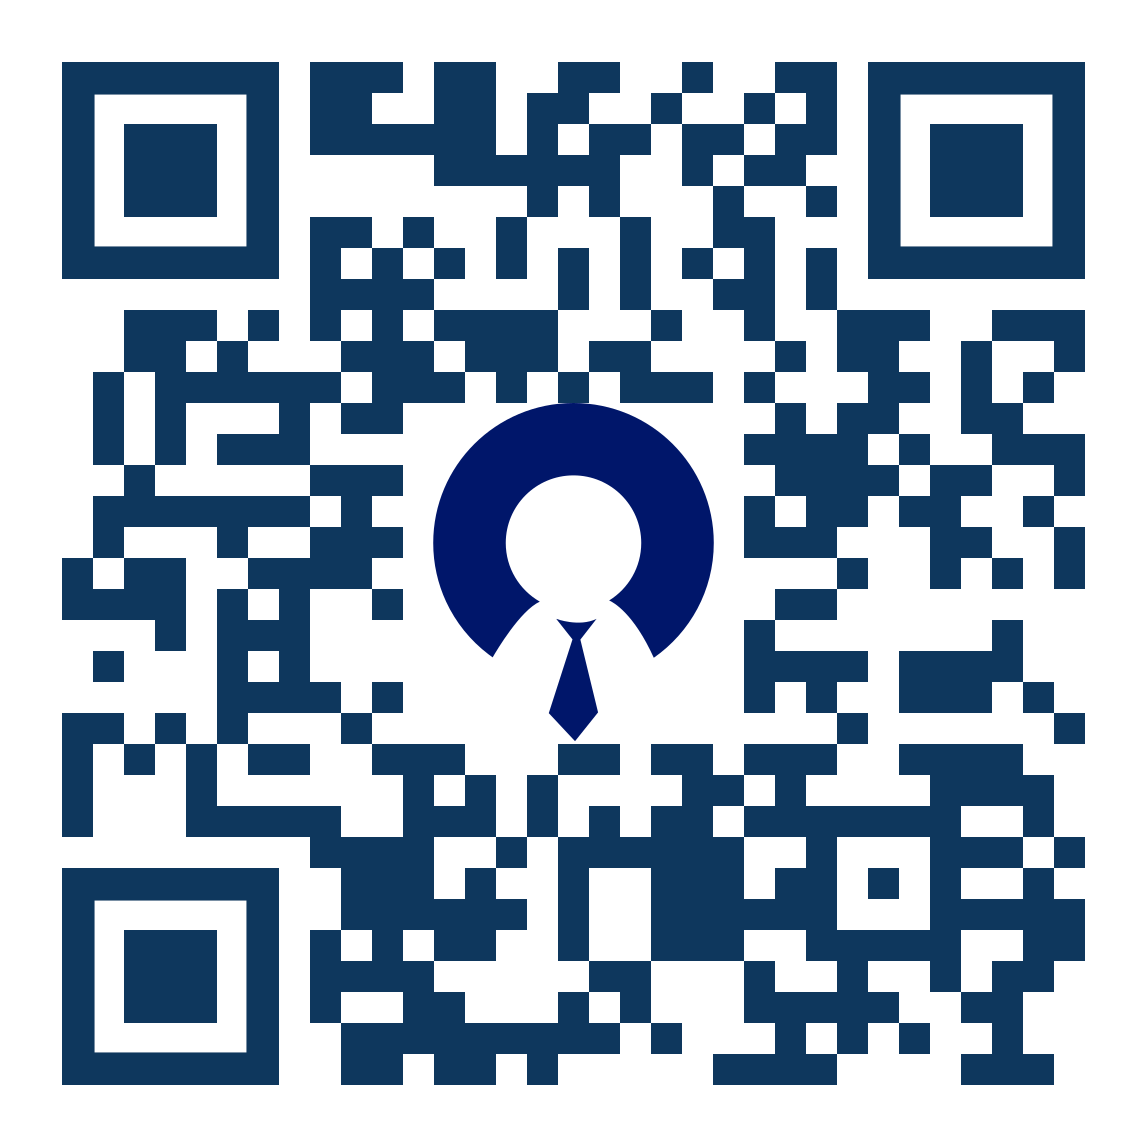
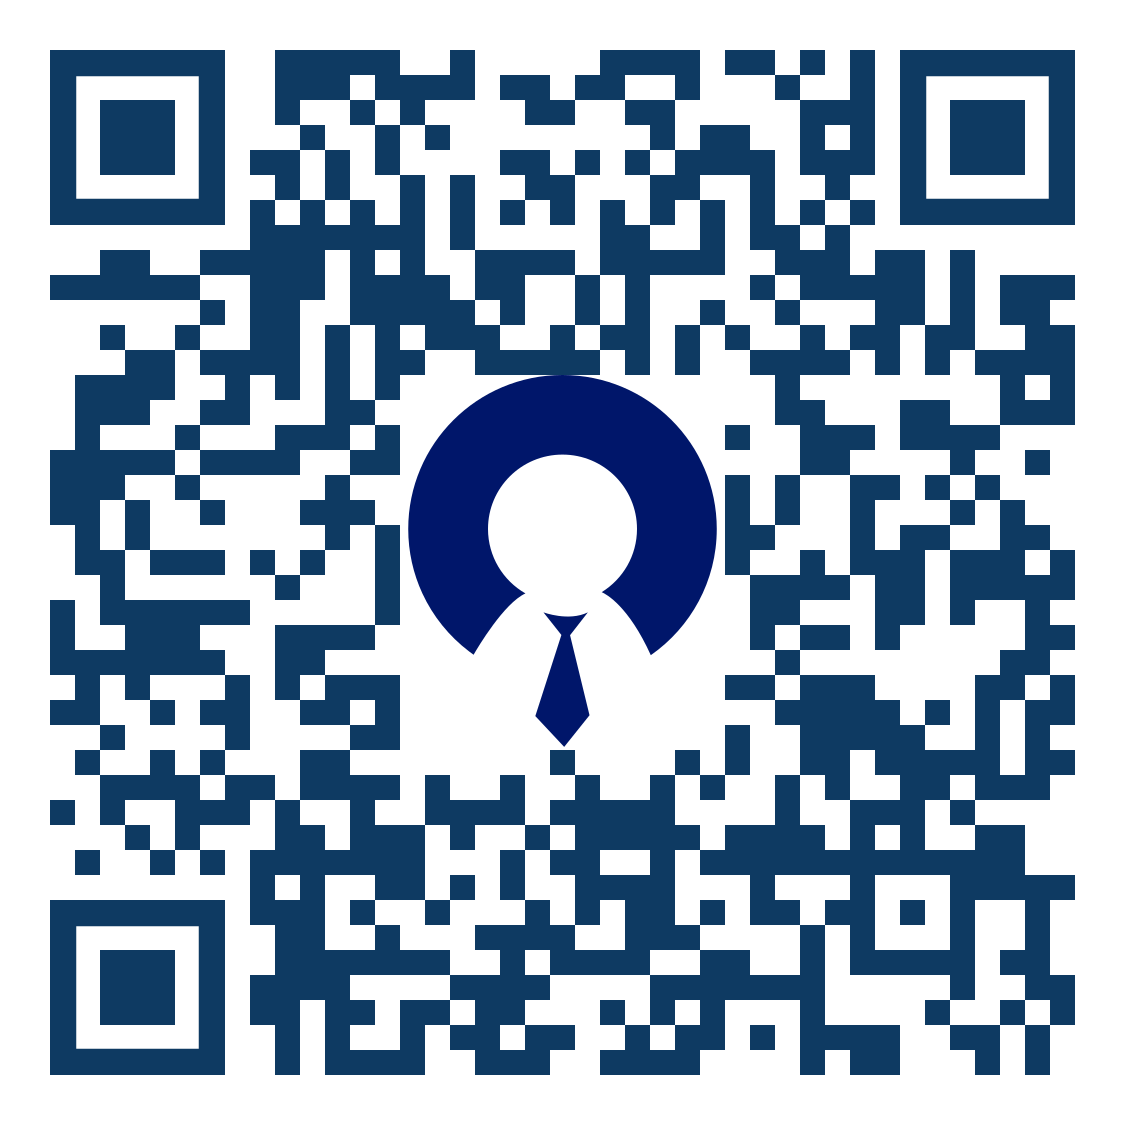
landing page commit

diff --git a/frontend/src/pages/LandingComponents/ContactSection.jsx b/frontend/src/pages/LandingComponents/ContactSection.jsx
@@ -110,7 +110,7 @@ function ContactSection() {
                     >
                         <div className="envelope">
                             <div className="paper">
-                                <a href="https://linktr.ee/FitFound" target='_blank' style={{display:'contents'}}><img src={qrSrc} alt="QR Code" /></a>
+                                <a href="https://hitinsachdeva161.github.io/FitFoundLinks/" target='_blank' style={{display:'contents'}}><img src={qrSrc} alt="QR Code" /></a>
                             </div>
                         </div>
                         <Typography mt={2} fontWeight="bold" textAlign="center">
